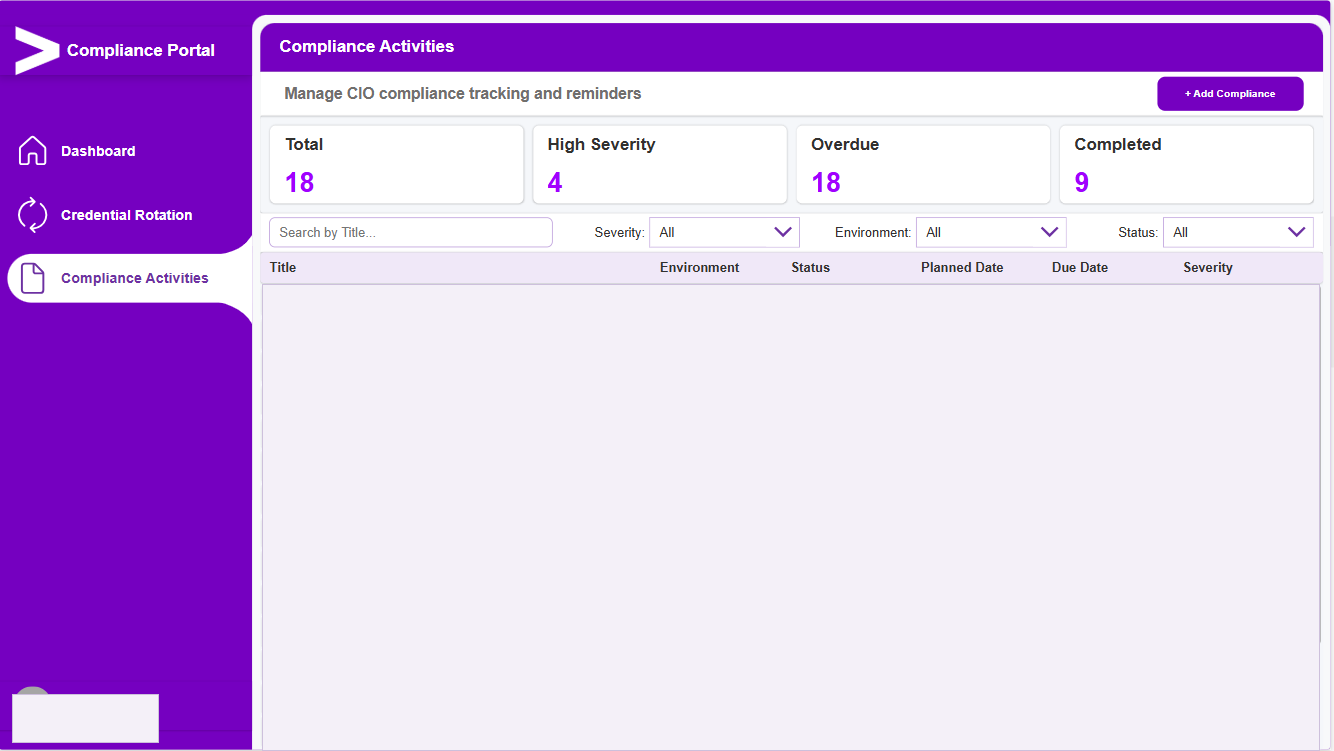
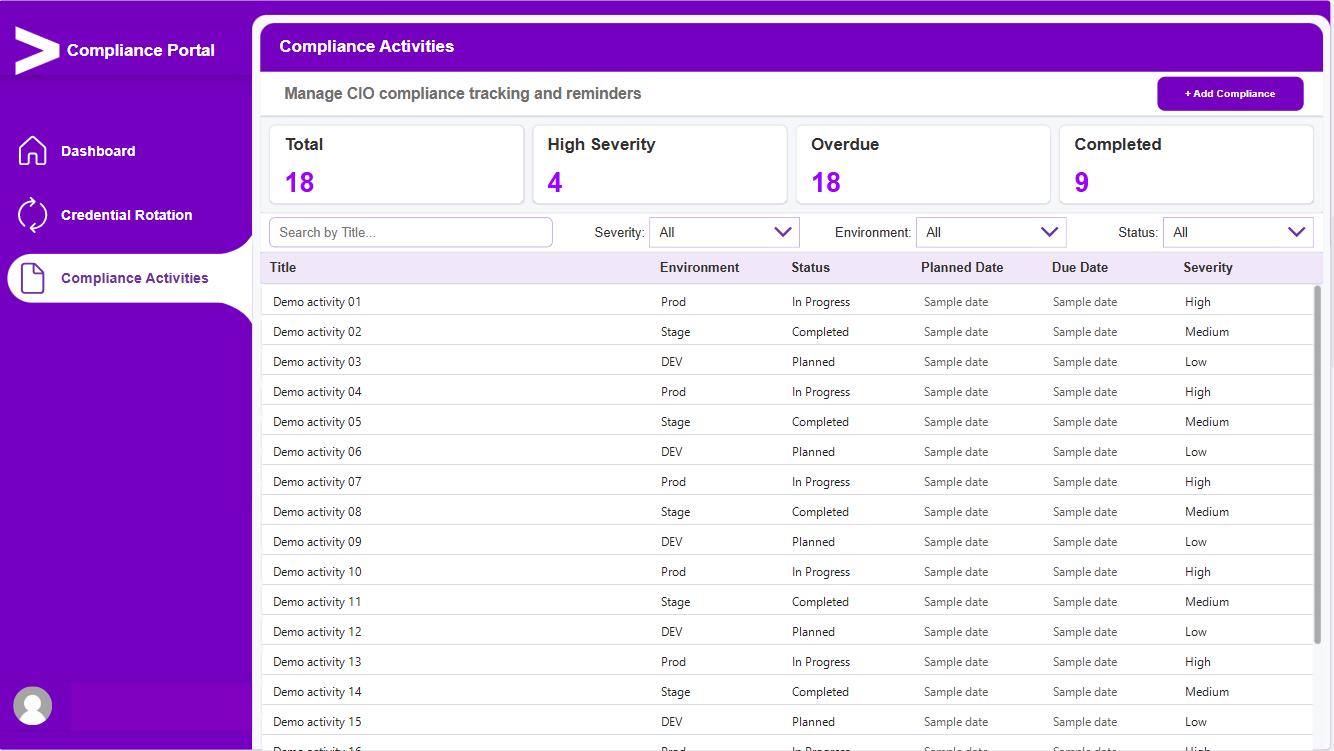
Refresh portfolio screenshots with anonymized source captures (#3)
* Polish portfolio project updates

* Refresh portfolio screenshots with anonymized source captures

---------

diff --git a/lib/projects.ts b/lib/projects.ts
@@ -41,20 +41,20 @@ export const projects: Project[] = [
     summary: "A centralized Canvas App experience for tracking access credential rotation and compliance activities.",
     cardSolution: "App development and reporting support connected records, date validation, audit history and automated reminders.",
     role: "Power Platform development and reporting support",
-    presentationNote: "The original layout is retained. Public copies use fictional records and show Aswin in the profile footer; dashboard totals remain point-in-time examples.",
+    presentationNote: "Screenshots retain their supplied layouts with synthetic record examples and neutral profile labels; dashboard totals remain point-in-time examples.",
     screenshots: [{
-      src: "/projects/pam-compliance-overview-synthetic.png",
-      alt: "Compliance Portal overview with summary cards, charts, redacted records, and a profile footer labeled Aswin.",
+      src: "/projects/pam-compliance-overview-redacted.png",
+      alt: "Compliance Portal overview with summary cards, charts and a table of synthetic example records.",
       width: 1329,
       height: 755,
-      caption: "PAM and CIO Compliance overview with a synthetic profile footer.",
+      caption: "PAM and CIO Compliance overview dashboard.",
       privacyMask: true
     }, {
-      src: "/projects/pam-credential-rotation-synthetic.png",
-      alt: "Credential Rotation screen with fictional names and rotation IDs in the original table layout.",
+      src: "/projects/pam-credential-rotation-redacted.png",
+      alt: "Credential Rotation screen with summary cards, filters and synthetic example records.",
       width: 1335,
       height: 753,
-      caption: "Credential Rotation list with synthetic sample records.",
+      caption: "Credential Rotation list and summary cards.",
       privacyMask: true
     }, {
       src: "/projects/compliance-new-rotation.png",
@@ -63,11 +63,11 @@ export const projects: Project[] = [
       height: 753,
       caption: "New credential rotation form, shown as supplied."
     }, {
-      src: "/projects/pam-compliance-activities-synthetic.png",
-      alt: "Compliance Activities screen with summary cards, filters, redacted records, and a profile footer labeled Aswin.",
+      src: "/projects/pam-compliance-activities-redacted.png",
+      alt: "Compliance Activities screen with summary cards, filters and synthetic example records.",
       width: 1334,
       height: 751,
-      caption: "Compliance Activities list with a synthetic profile footer.",
+      caption: "Compliance Activities list and status fields.",
       privacyMask: true
     }],
     technologies: ["Power Apps", "Dataverse", "Power Automate", "Teams Adaptive Cards", "Power BI", "Power Fx"],
@@ -100,7 +100,7 @@ export const projects: Project[] = [
       "Make the reason, actor and timestamp available with each tracked date change",
       "Label recreated previews that use synthetic data"
     ],
-    outcome: "The case study describes documented contributions without claiming deployment, adoption or business impact. Its original Power Apps screenshot is shown as supplied."
+    outcome: "The case study describes documented contributions without claiming deployment, adoption or business impact. Screenshots preserve the original interface styling while using synthetic record examples."
   },
   {
     slug: "health-compliance-analytics",
@@ -153,14 +153,20 @@ export const projects: Project[] = [
     summary: "A Power BI dashboard for exploring application usage across sessions, screens, users and time.",
     cardSolution: "The work covered dashboard design, DAX calculations and report validation; public example records are synthetic.",
     role: "Power BI dashboard design and DAX/report validation",
-    presentationNote: "The overview uses fictional enterprise IDs and user names; report metrics remain point-in-time examples.",
+    presentationNote: "The overview keeps the supplied report layout with synthetic user and screen labels; KPI figures remain snapshot examples. The focused hourly chart is shown as supplied.",
     screenshots: [{
-      src: "/projects/user-activity-dashboard-synthetic.png",
-      alt: "Usage analytics report with fictional enterprise IDs and names in its activity tables and user chart.",
-      width: 1135,
-      height: 884,
-      caption: "Usage analytics overview with synthetic user records.",
+      src: "/projects/user-activity-dashboard-redacted.png",
+      alt: "Application usage report with KPI cards, activity charts and synthetic user-level examples.",
+      width: 1007,
+      height: 785,
+      caption: "Usage analytics overview.",
       privacyMask: true
+    }, {
+      src: "/projects/user-activity-hourly-chart.png",
+      alt: "Power BI hourly activity breakdown chart showing total sessions by hour, grouped by day of the week.",
+      width: 480,
+      height: 366,
+      caption: "Hourly Activity Breakdown, shown as supplied."
     }],
     technologies: ["Power BI", "DAX", "Power Query", "Dataverse activity logs", "SQL / PostgreSQL where applicable"],
     theme: "aqua",
@@ -284,22 +290,22 @@ export const projects: Project[] = [
     summary: "A support-query experience for submitting requests and reviewing their status, assignment and history.",
     cardSolution: "The documented interface combines a structured intake form with searchable recent-query and tracking views.",
     role: "Power Apps project; individual responsibilities are not specified in the source document",
-    presentationNote: "Source views remain in document order. Public copies use fictional names, ticket IDs and descriptions; aggregate totals remain point-in-time examples.",
+    presentationNote: "Source screenshots are displayed in document order; personal and ticket-level values are omitted from public copies.",
     technologies: ["Power Apps"],
     theme: "violet",
     screenshots: [{
       src: "/projects/hypercare-query-form-redacted.png",
-      alt: "Hypercare support app with a query submission form and an empty recent-query panel.",
+      alt: "Hypercare support app with a query form, synthetic recent-query examples and neutral submitter avatars.",
       width: 1338,
       height: 751,
       caption: "Raise New Query form and Recent Queries panel.",
       privacyMask: true
     }, {
-      src: "/projects/hypercare-query-overview-synthetic.png",
-      alt: "Hypercare query overview with fictional query IDs, names, descriptions and status values.",
-      width: 1134,
-      height: 640,
-      caption: "Query Overview with synthetic sample records.",
+      src: "/projects/hypercare-query-overview-redacted.png",
+      alt: "Hypercare query overview with synthetic sample records and neutral unknown-user avatars in the Submitted and Assigned columns.",
+      width: 1338,
+      height: 756,
+      caption: "Query Overview filters and tracking table.",
       privacyMask: true
     }],
     problem: "Support requests needed a consistent intake experience and a way to review the state and assignment of existing queries.",
@@ -335,22 +341,29 @@ export const projects: Project[] = [
     summary: "Operations reporting for ticket volumes, status trends, category coverage and team activity.",
     cardSolution: "The documented views bring ticket KPIs, trend analysis, team workload and record-level detail into one reporting experience.",
     role: "Power BI project; individual responsibilities are not specified in the source document",
-    presentationNote: "Source views remain in document order. Public copies use fictional names and ticket details; KPI totals remain point-in-time screenshot values.",
+    presentationNote: "Source screenshots are displayed in document order; personal and ticket-level values are omitted. Report figures are point-in-time examples.",
     technologies: ["Power BI"],
     theme: "blue",
     screenshots: [{
-      src: "/projects/hypercare-operations-dashboard-synthetic.png",
-      alt: "Hypercare operations report with ticket KPIs, category and team summaries, plus fictional assignees and ticket records.",
-      width: 1134,
-      height: 1090,
-      caption: "Operations dashboard with synthetic assignees and ticket records.",
+      src: "/projects/hypercare-operations-dashboard-redacted.png",
+      alt: "Hypercare operations report with ticket KPI cards, category and team summaries, a trend chart and synthetic detail rows.",
+      width: 803,
+      height: 772,
+      caption: "Operations dashboard with ticket KPIs, trends and team summaries.",
       privacyMask: true
     }, {
-      src: "/projects/hypercare-team-activity-synthetic.png",
-      alt: "OPS team activity report with fictional team names and sample workload measures.",
-      width: 1134,
-      height: 530,
-      caption: "OPS Team Activity view with synthetic team names.",
+      src: "/projects/hypercare-team-activity-redacted.png",
+      alt: "OPS team activity report with rota and workload measures and anonymized team-member labels.",
+      width: 1242,
+      height: 581,
+      caption: "OPS Team Activity view.",
+      privacyMask: true
+    }, {
+      src: "/projects/hypercare-ticket-details-redacted.png",
+      alt: "Ticket details summary with assigned-user names omitted and status counts visible.",
+      width: 676,
+      height: 390,
+      caption: "Ticket Details summary.",
       privacyMask: true
     }],
     problem: "Support operations needed reporting that could summarize ticket volume and status while allowing users to explore category, trend and team workload.",
@@ -387,15 +400,15 @@ export const projects: Project[] = [
     summary: "An app interface for reviewing failed ServiceNow-to-Azure DevOps conversions, retry history and access administration.",
     cardSolution: "The documented screens cover retry history, configuration and user-access management without exposing internal configuration values.",
     role: "Power Apps project; individual responsibilities are not specified in the source document",
-    presentationNote: "Public copies use fictional user names, enterprise IDs and retry details. The original layouts are retained; internal configuration values remain omitted.",
+    presentationNote: "Source screenshots are displayed in document order; personal data, ticket details and internal configuration values are omitted.",
     technologies: ["Power Apps", "ServiceNow", "Azure DevOps"],
     theme: "violet",
     screenshots: [{
-      src: "/projects/workday-retry-history-synthetic.png",
-      alt: "ServiceNow ADO Retry overview with fictional incident IDs, team names and retry descriptions.",
+      src: "/projects/workday-retry-history-redacted.png",
+      alt: "Workday ServiceNow ADO Retry overview with KPI cards and a retry-history table whose record values are omitted.",
       width: 1333,
       height: 745,
-      caption: "Overview and Retry History with synthetic records.",
+      caption: "Overview and Retry History.",
       privacyMask: true
     }, {
       src: "/projects/workday-ado-configuration-redacted.png",
@@ -407,15 +420,15 @@ export const projects: Project[] = [
     }, {
       src: "/projects/workday-add-users.png",
       alt: "Add Users form with empty fields and no user records.",
-      width: 1134,
-      height: 638,
+      width: 1334,
+      height: 750,
       caption: "Add Users form with an empty user list."
     }, {
-      src: "/projects/workday-access-management-synthetic.png",
-      alt: "Access-management screen with fictional enterprise IDs, northstar.example email addresses and team names.",
-      width: 1134,
-      height: 640,
-      caption: "Admin Dashboard with synthetic user records.",
+      src: "/projects/workday-access-management-redacted.png",
+      alt: "Workday ADO Retry access-management screen with user, email and team records omitted.",
+      width: 1332,
+      height: 752,
+      caption: "Admin Dashboard with user-record values omitted.",
       privacyMask: true
     }],
     problem: "The documented application provides views for following conversion attempts, examining failures and maintaining related access settings.",

diff --git a/app/privacy/page.tsx b/app/privacy/page.tsx
@@ -1,3 +1,3 @@
 import type { Metadata } from "next";
 export const metadata: Metadata = { title: "Portfolio note", description: "Privacy and confidentiality note for the portfolio." };
-export default function PrivacyPage() { return <section className="section shell prose"><p className="section-kicker">PORTFOLIO NOTE</p><h1>Confidentiality and demonstration data</h1><p>Public screenshot copies preserve the supplied layouts while replacing selected blanked rows with fictional names, enterprise IDs, ticket references and descriptions. The fictional organization name is Northstar. Original redacted source images remain unchanged.</p><p>Visible dashboard totals and chart values are point-in-time screenshot examples, not independently verified live results or impact claims. Case studies do not imply deployments, adoption or outcomes beyond what their descriptions state.</p></section>; }
+export default function PrivacyPage() { return <section className="section shell prose"><p className="section-kicker">PORTFOLIO NOTE</p><h1>Confidentiality and demonstration data</h1><p>Public screenshot copies preserve the supplied interface layouts while removing or replacing personal identifiers, ticket-level records, employer branding and internal configuration where needed. Any replacement names or record values are synthetic; original source documents are not published.</p><p>Visible dashboard totals and chart values are point-in-time screenshot examples, not independently verified live results or impact claims. Case studies do not imply deployments, adoption or outcomes beyond what their descriptions state.</p></section>; }
